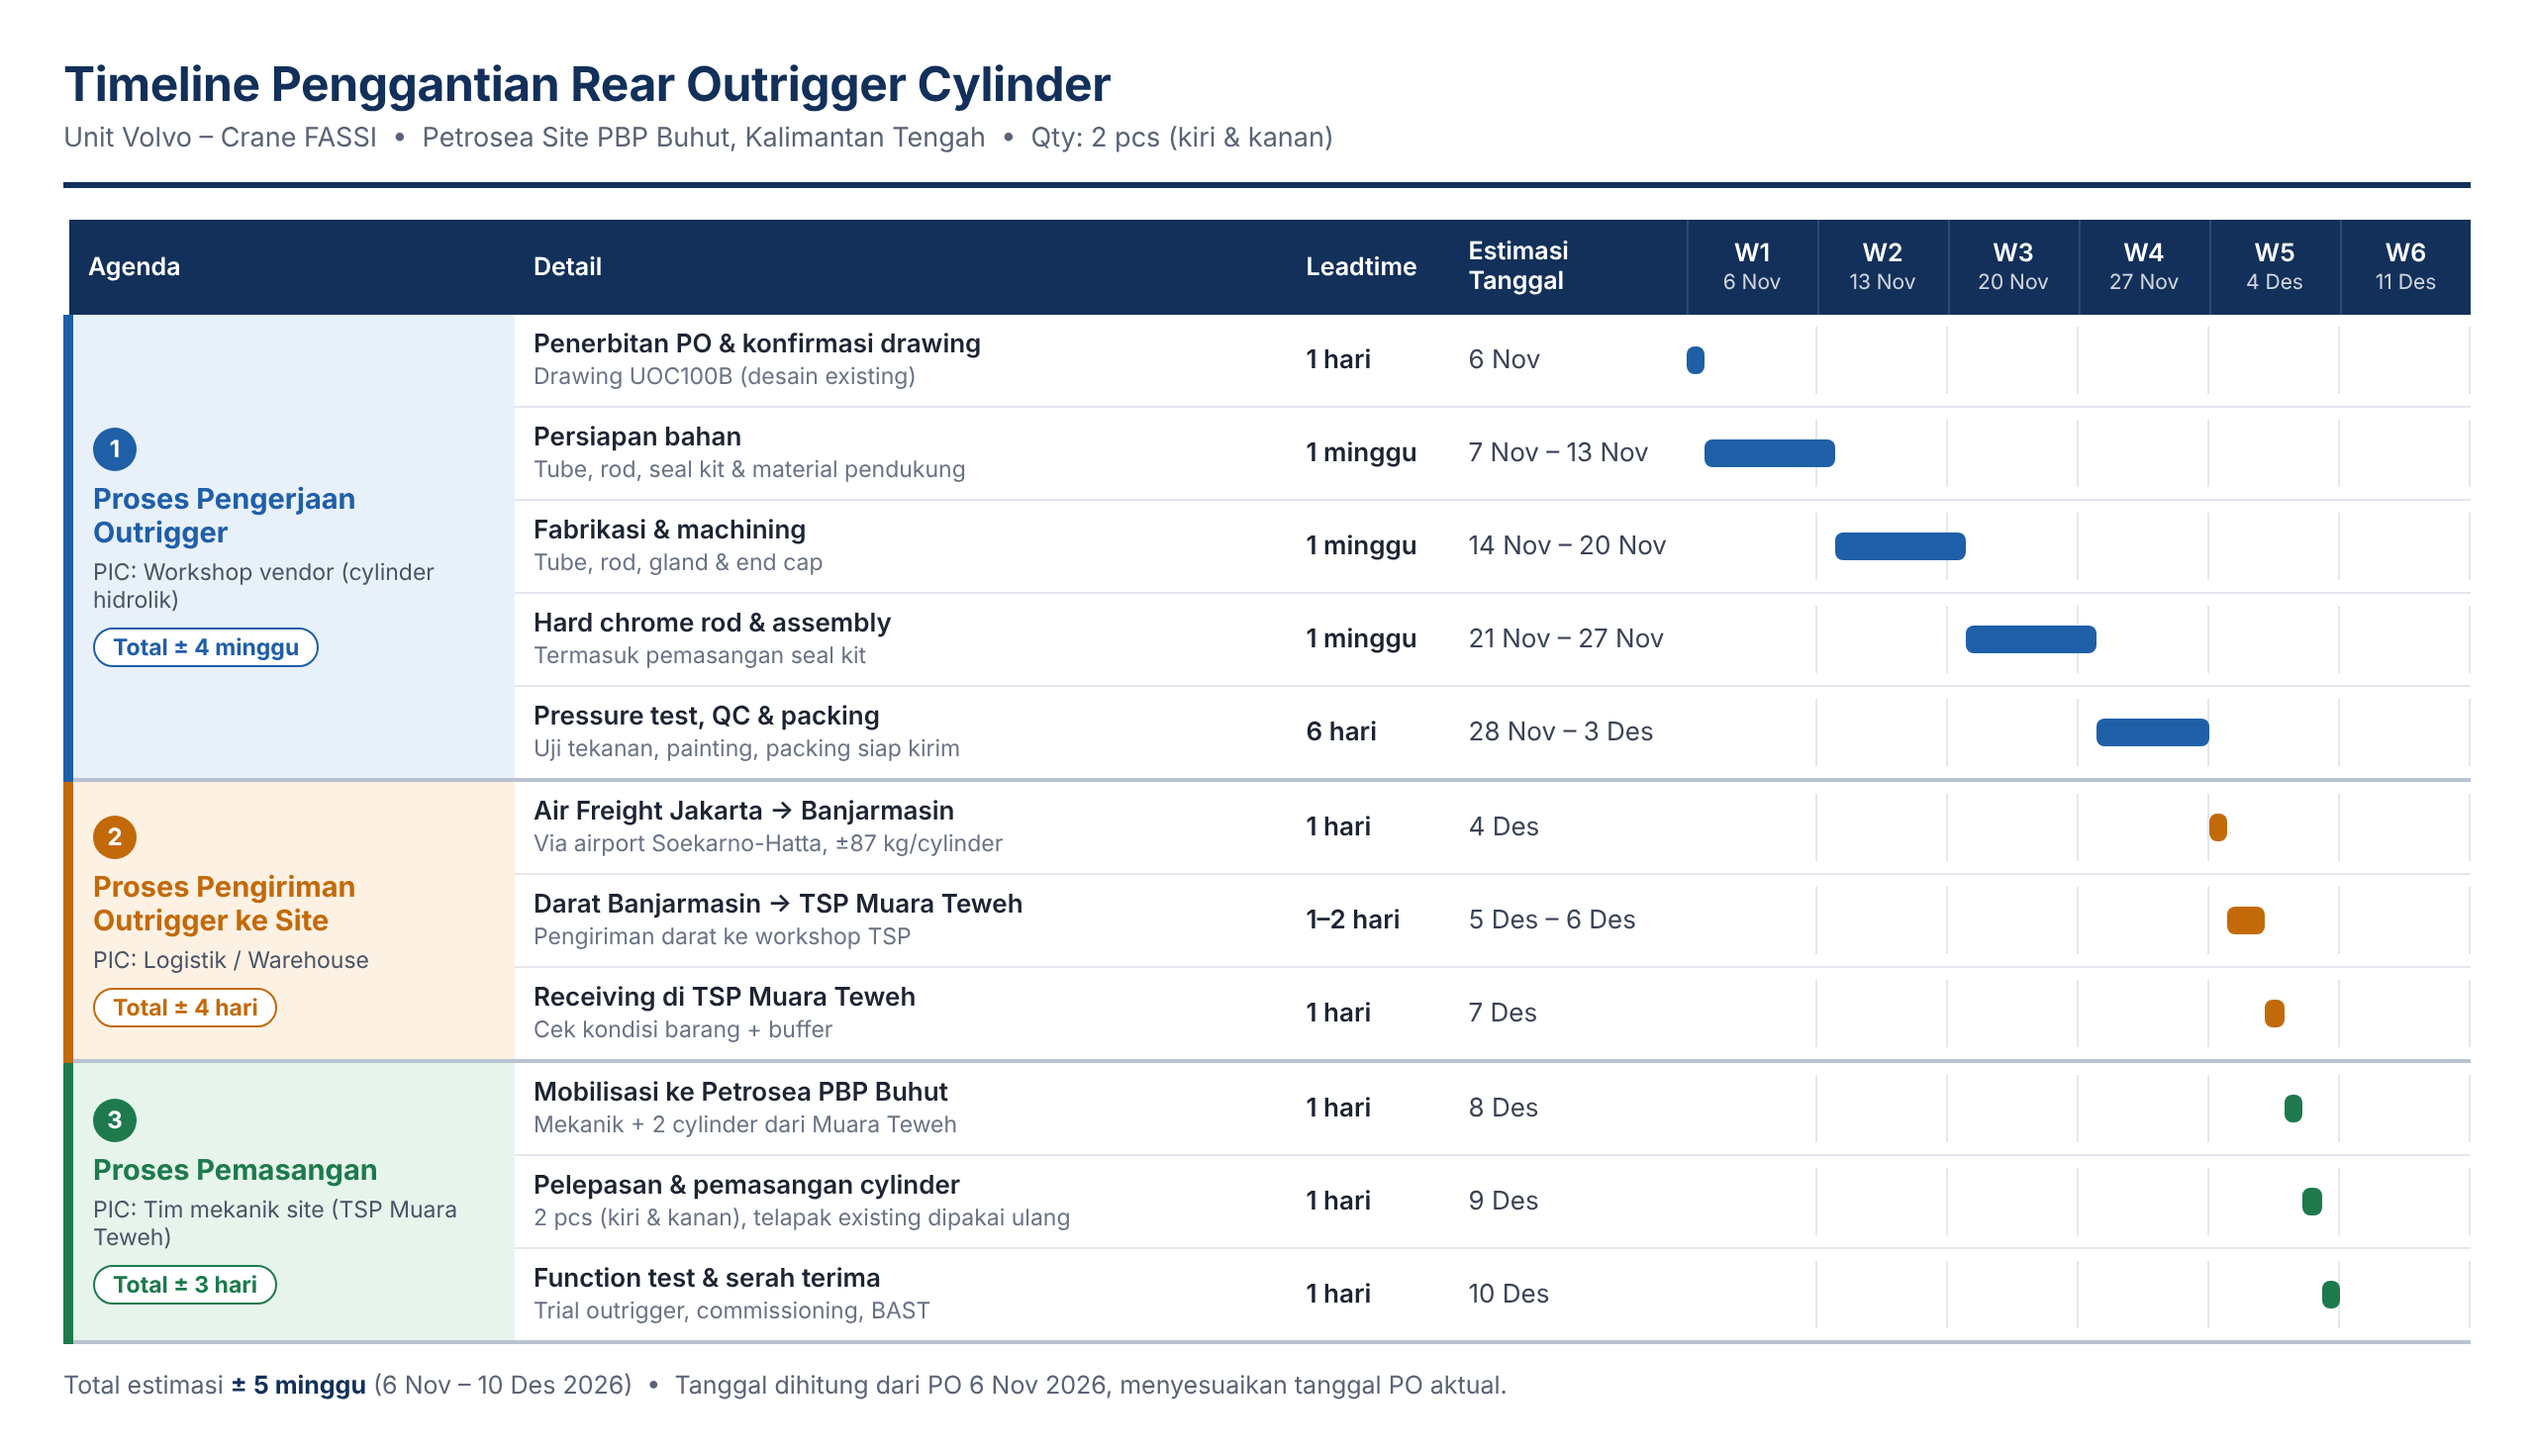
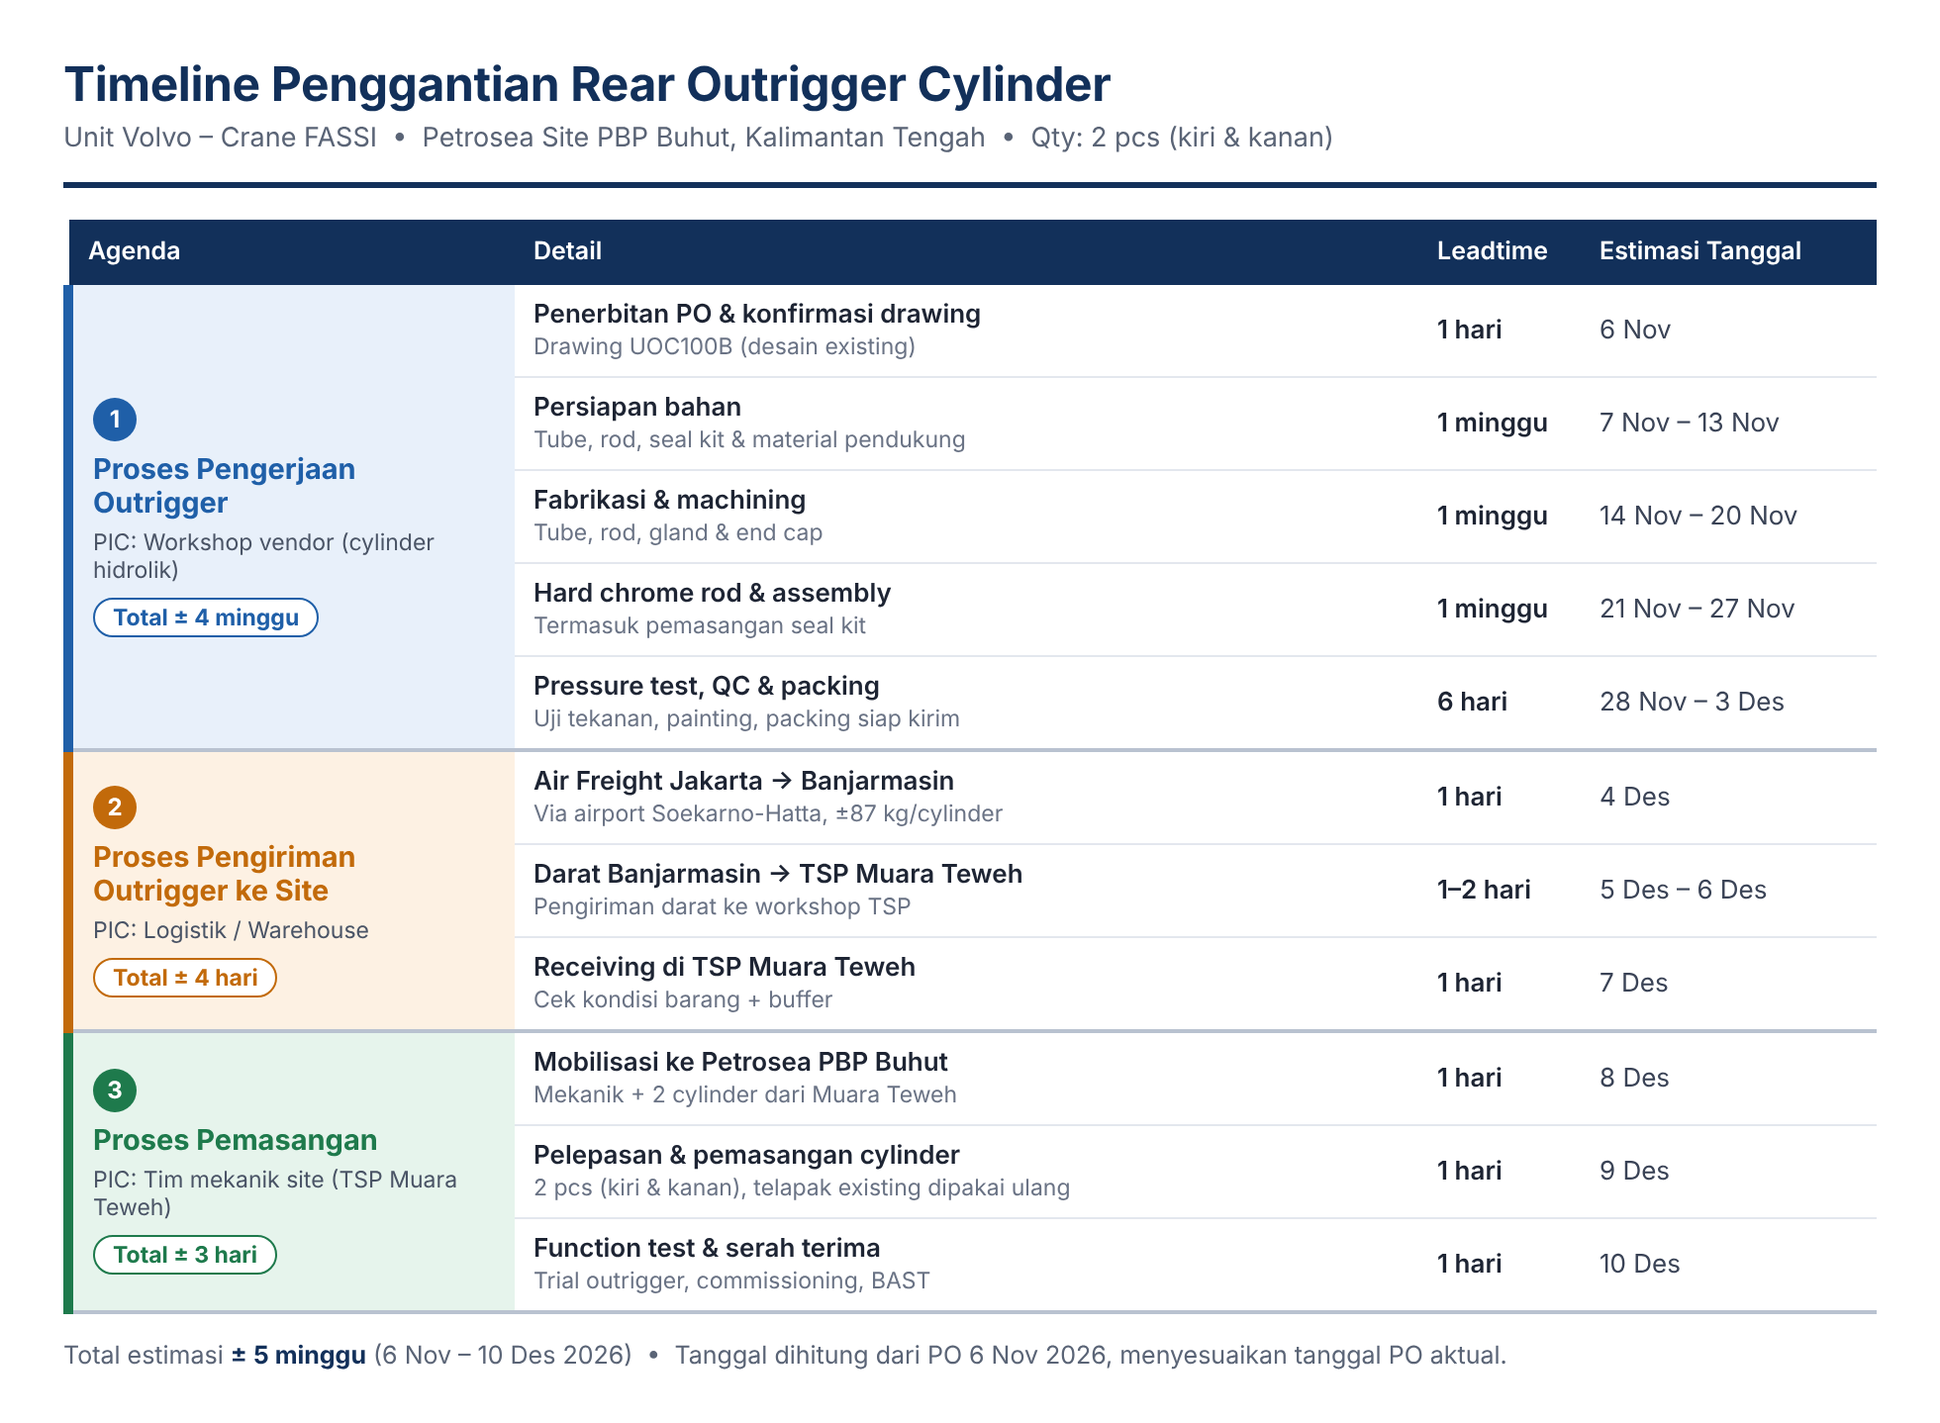
Remove weekly gantt columns from Petrosea outrigger timeline
Claude-Session: https://claude.ai/code/session_01WVXA4T3xd8paKwLdniueSW

diff --git a/output/petrosea_outrigger/Timeline_Outrigger_Petrosea.html b/output/petrosea_outrigger/Timeline_Outrigger_Petrosea.html
@@ -1,6 +1,6 @@
 <!doctype html><html><head><meta charset="utf-8"><style>
 *{box-sizing:border-box}body{margin:0;background:#fff;font-family:Inter,sans-serif;color:#1d2433}
-.wrap{width:1280px;padding:28px 32px 26px}
+.wrap{width:980px;padding:28px 32px 26px}
 .hd{display:flex;justify-content:space-between;align-items:flex-end;border-bottom:3px solid #12305a;padding-bottom:14px;margin-bottom:16px}
 h1{margin:0;font-size:24px;color:#12305a;letter-spacing:-.2px}.sub{font-size:13.5px;color:#5a6476;margin-top:5px}
 .kpi{display:flex;gap:10px}.k{border:1px solid #d6dce6;border-radius:8px;padding:7px 13px;text-align:right}.k b{display:block;font-size:17px;color:#12305a}.k span{font-size:11px;color:#5a6476;text-transform:uppercase;letter-spacing:.4px}
@@ -14,7 +14,7 @@ td.ph{width:225px;background:var(--bg);border-left:5px solid var(--c);border-bot
 .no{display:inline-block;background:var(--c);color:#fff;border-radius:50%;width:22px;height:22px;text-align:center;line-height:22px;font-weight:700;font-size:12px}
 .pn{font-weight:700;font-size:14.5px;margin:6px 0 4px;color:var(--c)}.pic{font-size:11.5px;color:#4a5466}.tot{display:inline-block;margin-top:7px;font-size:11.5px;font-weight:700;background:#fff;border:1px solid var(--c);color:var(--c);border-radius:20px;padding:2px 9px}
 td.act b{display:block;font-weight:600}td.act span{font-size:11.5px;color:#6a7385}
-td.lt{width:82px;font-weight:600;white-space:nowrap}td.dt{width:118px;white-space:nowrap;color:#3a4356}
+td.lt{width:82px;font-weight:600;white-space:nowrap}td.dt{width:150px;white-space:nowrap;color:#3a4356}
 td.g{padding:0 0;width:396px}.track{position:relative;height:34px;background:repeating-linear-gradient(90deg,transparent 0 calc(100%/6 - 1px),#e3e7ee calc(100%/6 - 1px) calc(100%/6))}
 .bar{position:absolute;top:10px;height:14px;border-radius:4px}
 .foot{margin-top:14px;font-size:12.5px;color:#5a6476}.foot b{color:#12305a}
@@ -22,6 +22,6 @@ td.g{padding:0 0;width:396px}.track{position:relative;height:34px;background:rep
 </style></head><body><div class="wrap">
 <div class="hd"><div><h1>Timeline Penggantian Rear Outrigger Cylinder</h1>
 <div class="sub">Unit Volvo – Crane FASSI &nbsp;•&nbsp; Petrosea Site PBP Buhut, Kalimantan Tengah &nbsp;•&nbsp; Qty: 2 pcs (kiri &amp; kanan)</div></div></div>
-<table><thead><tr><th>Agenda</th><th>Detail</th><th>Leadtime</th><th>Estimasi Tanggal</th><th class="wk">W1<span>6 Nov</span></th><th class="wk">W2<span>13 Nov</span></th><th class="wk">W3<span>20 Nov</span></th><th class="wk">W4<span>27 Nov</span></th><th class="wk">W5<span>4 Des</span></th><th class="wk">W6<span>11 Des</span></th></tr></thead><tbody><tr class="r"><td class="ph" rowspan="5" style="--c:#1f5fa8;--bg:#e8f0fa"><div class="no">1</div><div class="pn">Proses Pengerjaan Outrigger</div><div class="pic">PIC: Workshop vendor (cylinder hidrolik)</div><div class="tot">Total ± 4 minggu</div></td><td class="act"><b>Penerbitan PO & konfirmasi drawing</b><span>Drawing UOC100B (desain existing)</span></td><td class="lt">1 hari</td><td class="dt">6 Nov</td><td class="g" colspan="6"><div class="track"><div class="bar" style="left:0.00%;width:2.38%;background:#1f5fa8"></div></div></td></tr><tr class="r"><td class="act"><b>Persiapan bahan</b><span>Tube, rod, seal kit & material pendukung</span></td><td class="lt">1 minggu</td><td class="dt">7 Nov – 13 Nov</td><td class="g" colspan="6"><div class="track"><div class="bar" style="left:2.38%;width:16.67%;background:#1f5fa8"></div></div></td></tr><tr class="r"><td class="act"><b>Fabrikasi & machining</b><span>Tube, rod, gland & end cap</span></td><td class="lt">1 minggu</td><td class="dt">14 Nov – 20 Nov</td><td class="g" colspan="6"><div class="track"><div class="bar" style="left:19.05%;width:16.67%;background:#1f5fa8"></div></div></td></tr><tr class="r"><td class="act"><b>Hard chrome rod & assembly</b><span>Termasuk pemasangan seal kit</span></td><td class="lt">1 minggu</td><td class="dt">21 Nov – 27 Nov</td><td class="g" colspan="6"><div class="track"><div class="bar" style="left:35.71%;width:16.67%;background:#1f5fa8"></div></div></td></tr><tr class="r last"><td class="act"><b>Pressure test, QC & packing</b><span>Uji tekanan, painting, packing siap kirim</span></td><td class="lt">6 hari</td><td class="dt">28 Nov – 3 Des</td><td class="g" colspan="6"><div class="track"><div class="bar" style="left:52.38%;width:14.29%;background:#1f5fa8"></div></div></td></tr><tr class="r"><td class="ph" rowspan="3" style="--c:#c26a0a;--bg:#fdf1e3"><div class="no">2</div><div class="pn">Proses Pengiriman Outrigger ke Site</div><div class="pic">PIC: Logistik / Warehouse</div><div class="tot">Total ± 4 hari</div></td><td class="act"><b>Air Freight Jakarta → Banjarmasin</b><span>Via airport Soekarno-Hatta, ±87 kg/cylinder</span></td><td class="lt">1 hari</td><td class="dt">4 Des</td><td class="g" colspan="6"><div class="track"><div class="bar" style="left:66.67%;width:2.38%;background:#c26a0a"></div></div></td></tr><tr class="r"><td class="act"><b>Darat Banjarmasin → TSP Muara Teweh</b><span>Pengiriman darat ke workshop TSP</span></td><td class="lt">1–2 hari</td><td class="dt">5 Des – 6 Des</td><td class="g" colspan="6"><div class="track"><div class="bar" style="left:69.05%;width:4.76%;background:#c26a0a"></div></div></td></tr><tr class="r last"><td class="act"><b>Receiving di TSP Muara Teweh</b><span>Cek kondisi barang + buffer</span></td><td class="lt">1 hari</td><td class="dt">7 Des</td><td class="g" colspan="6"><div class="track"><div class="bar" style="left:73.81%;width:2.38%;background:#c26a0a"></div></div></td></tr><tr class="r"><td class="ph" rowspan="3" style="--c:#1e7a4c;--bg:#e6f4ec"><div class="no">3</div><div class="pn">Proses Pemasangan</div><div class="pic">PIC: Tim mekanik site (TSP Muara Teweh)</div><div class="tot">Total ± 3 hari</div></td><td class="act"><b>Mobilisasi ke Petrosea PBP Buhut</b><span>Mekanik + 2 cylinder dari Muara Teweh</span></td><td class="lt">1 hari</td><td class="dt">8 Des</td><td class="g" colspan="6"><div class="track"><div class="bar" style="left:76.19%;width:2.38%;background:#1e7a4c"></div></div></td></tr><tr class="r"><td class="act"><b>Pelepasan & pemasangan cylinder</b><span>2 pcs (kiri & kanan), telapak existing dipakai ulang</span></td><td class="lt">1 hari</td><td class="dt">9 Des</td><td class="g" colspan="6"><div class="track"><div class="bar" style="left:78.57%;width:2.38%;background:#1e7a4c"></div></div></td></tr><tr class="r last"><td class="act"><b>Function test & serah terima</b><span>Trial outrigger, commissioning, BAST</span></td><td class="lt">1 hari</td><td class="dt">10 Des</td><td class="g" colspan="6"><div class="track"><div class="bar" style="left:80.95%;width:2.38%;background:#1e7a4c"></div></div></td></tr></tbody></table>
+<table><thead><tr><th>Agenda</th><th>Detail</th><th>Leadtime</th><th>Estimasi Tanggal</th></tr></thead><tbody><tr class="r"><td class="ph" rowspan="5" style="--c:#1f5fa8;--bg:#e8f0fa"><div class="no">1</div><div class="pn">Proses Pengerjaan Outrigger</div><div class="pic">PIC: Workshop vendor (cylinder hidrolik)</div><div class="tot">Total ± 4 minggu</div></td><td class="act"><b>Penerbitan PO & konfirmasi drawing</b><span>Drawing UOC100B (desain existing)</span></td><td class="lt">1 hari</td><td class="dt">6 Nov</td></tr><tr class="r"><td class="act"><b>Persiapan bahan</b><span>Tube, rod, seal kit & material pendukung</span></td><td class="lt">1 minggu</td><td class="dt">7 Nov – 13 Nov</td></tr><tr class="r"><td class="act"><b>Fabrikasi & machining</b><span>Tube, rod, gland & end cap</span></td><td class="lt">1 minggu</td><td class="dt">14 Nov – 20 Nov</td></tr><tr class="r"><td class="act"><b>Hard chrome rod & assembly</b><span>Termasuk pemasangan seal kit</span></td><td class="lt">1 minggu</td><td class="dt">21 Nov – 27 Nov</td></tr><tr class="r last"><td class="act"><b>Pressure test, QC & packing</b><span>Uji tekanan, painting, packing siap kirim</span></td><td class="lt">6 hari</td><td class="dt">28 Nov – 3 Des</td></tr><tr class="r"><td class="ph" rowspan="3" style="--c:#c26a0a;--bg:#fdf1e3"><div class="no">2</div><div class="pn">Proses Pengiriman Outrigger ke Site</div><div class="pic">PIC: Logistik / Warehouse</div><div class="tot">Total ± 4 hari</div></td><td class="act"><b>Air Freight Jakarta → Banjarmasin</b><span>Via airport Soekarno-Hatta, ±87 kg/cylinder</span></td><td class="lt">1 hari</td><td class="dt">4 Des</td></tr><tr class="r"><td class="act"><b>Darat Banjarmasin → TSP Muara Teweh</b><span>Pengiriman darat ke workshop TSP</span></td><td class="lt">1–2 hari</td><td class="dt">5 Des – 6 Des</td></tr><tr class="r last"><td class="act"><b>Receiving di TSP Muara Teweh</b><span>Cek kondisi barang + buffer</span></td><td class="lt">1 hari</td><td class="dt">7 Des</td></tr><tr class="r"><td class="ph" rowspan="3" style="--c:#1e7a4c;--bg:#e6f4ec"><div class="no">3</div><div class="pn">Proses Pemasangan</div><div class="pic">PIC: Tim mekanik site (TSP Muara Teweh)</div><div class="tot">Total ± 3 hari</div></td><td class="act"><b>Mobilisasi ke Petrosea PBP Buhut</b><span>Mekanik + 2 cylinder dari Muara Teweh</span></td><td class="lt">1 hari</td><td class="dt">8 Des</td></tr><tr class="r"><td class="act"><b>Pelepasan & pemasangan cylinder</b><span>2 pcs (kiri & kanan), telapak existing dipakai ulang</span></td><td class="lt">1 hari</td><td class="dt">9 Des</td></tr><tr class="r last"><td class="act"><b>Function test & serah terima</b><span>Trial outrigger, commissioning, BAST</span></td><td class="lt">1 hari</td><td class="dt">10 Des</td></tr></tbody></table>
 <div class="foot">Total estimasi <b>± 5 minggu</b> (6 Nov – 10 Des 2026) &nbsp;•&nbsp; Tanggal dihitung dari PO 6 Nov 2026, menyesuaikan tanggal PO aktual.</div>
 </div></body></html>
